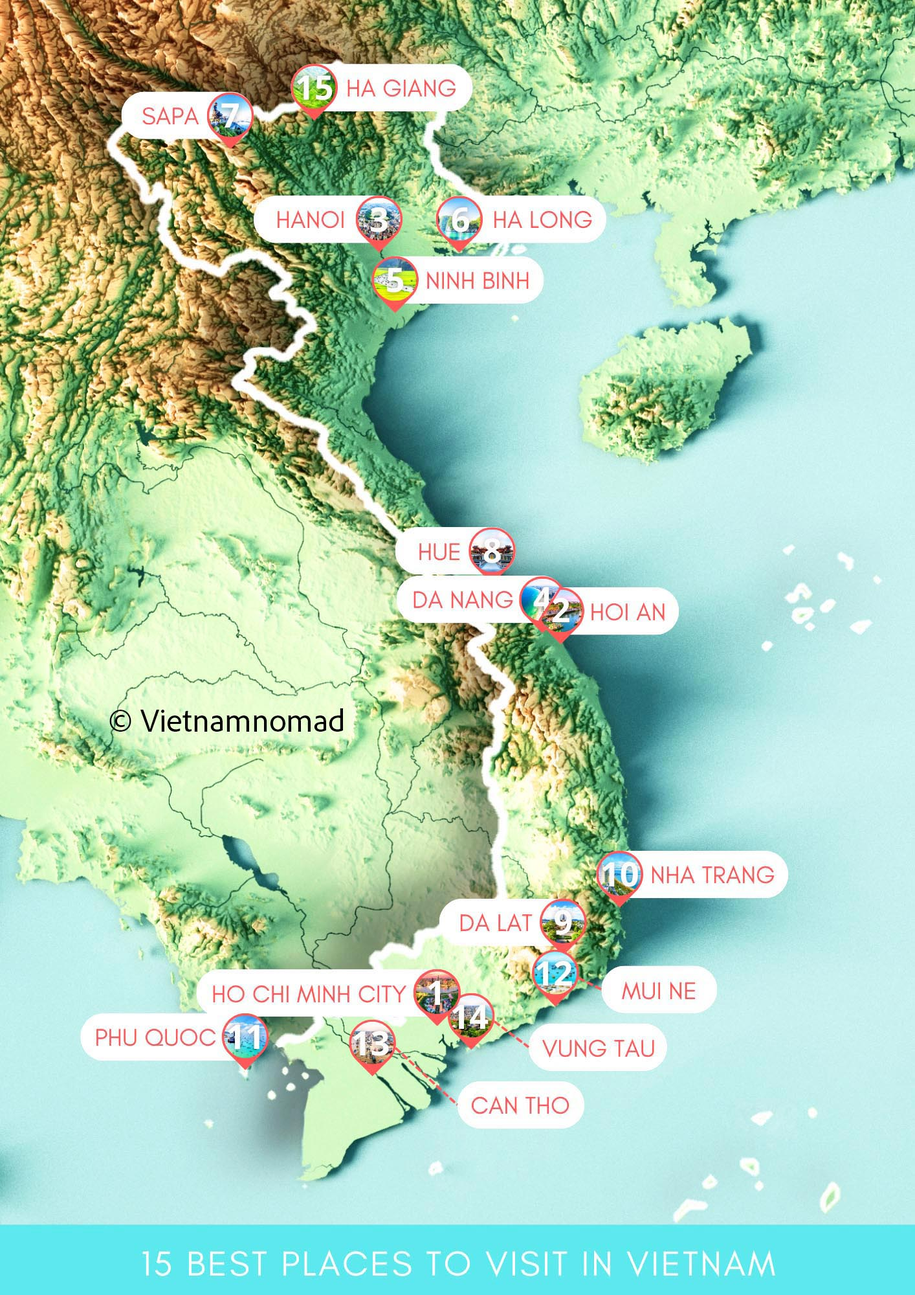
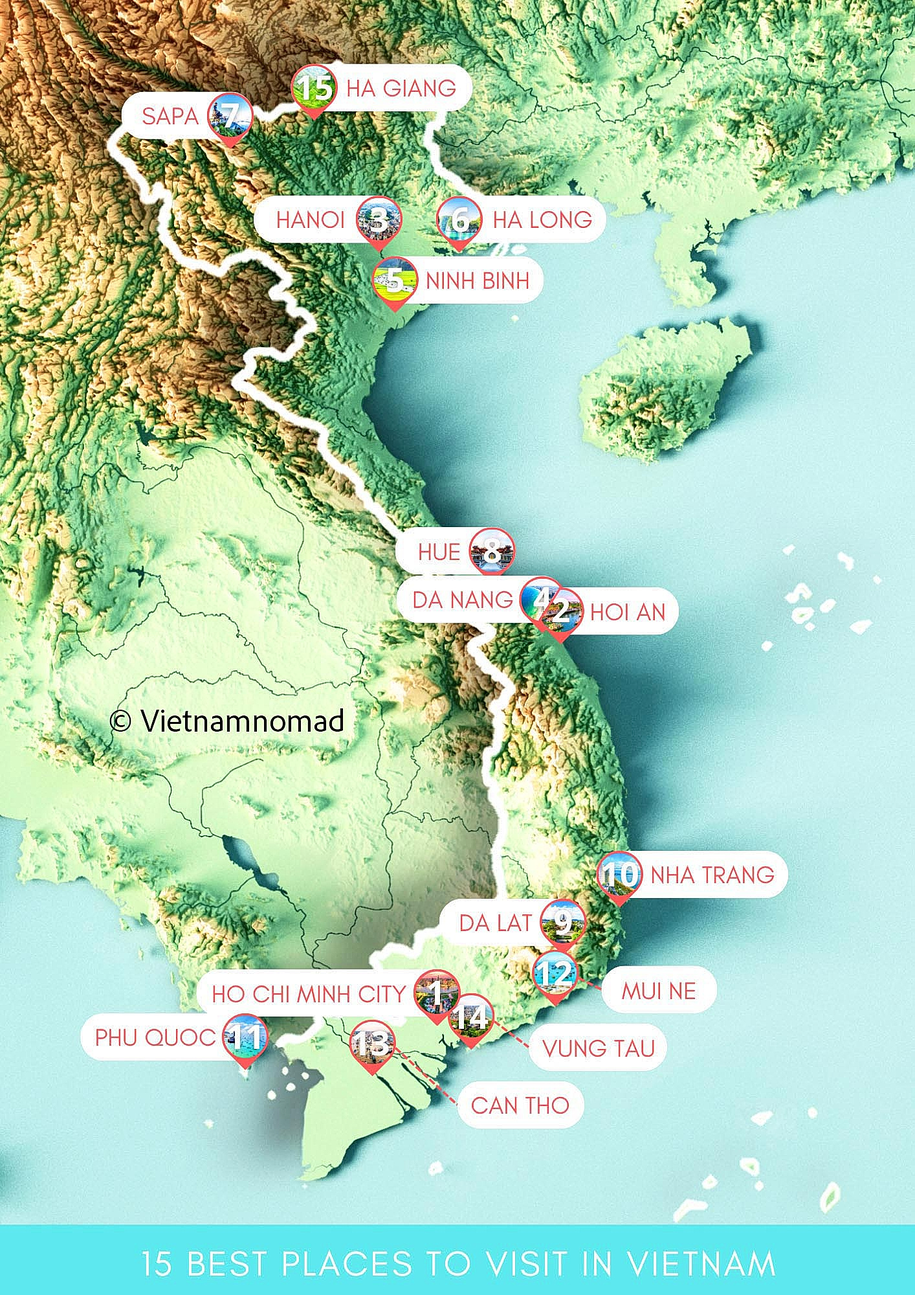
feat: add VI-EN language switcher to 15 best places navbar and sharpen 3D relief map

diff --git a/frontend/app/(public)/guide/15-best-places-to-visit-in-vietnam-in-2026/page.js b/frontend/app/(public)/guide/15-best-places-to-visit-in-vietnam-in-2026/page.js
@@ -4,6 +4,8 @@ import { useState, useRef, useEffect } from "react";
 import Link from "next/link";
 import Logo from "@/components/layout/Logo";
 import ProvinceChatbot from "@/components/ui/ProvinceChatbot";
+import LanguageSwitch from "@/components/ui/LanguageSwitch";
+import { getLang } from "@/lib/prefs";
 import {
   Search,
   ChevronDown,
@@ -317,11 +319,23 @@ function renderTextWithLinks(text) {
 }
 
 export default function BestPlaces2026Page() {
+  const [lang, setLangState] = useState("vi");
   const [activeMegaMenu, setActiveMegaMenu] = useState(null);
   const megaMenuTimeoutRef = useRef(null);
   const [searchModalOpen, setSearchModalOpen] = useState(false);
   const [searchModalText, setSearchModalText] = useState("");
   const [aiCompanionOpen, setAiCompanionOpen] = useState(false);
+
+  useEffect(() => {
+    setLangState(getLang());
+    const handleLangUpdated = (e) => {
+      setLangState(e.detail);
+    };
+    window.addEventListener("vinatap:lang-updated", handleLangUpdated);
+    return () => {
+      window.removeEventListener("vinatap:lang-updated", handleLangUpdated);
+    };
+  }, []);
   const [companionInput, setCompanionInput] = useState("");
   const [companionMessages, setCompanionMessages] = useState([
     {
@@ -400,7 +414,7 @@ export default function BestPlaces2026Page() {
                 type="button"
                 className={`vnn-navbar__link ${activeMegaMenu === "inspired" ? "is-active" : ""}`}
               >
-                <span>BE INSPIRED</span>
+                <span>{lang === "vi" ? "CẢM HỨNG" : "BE INSPIRED"}</span>
                 <ChevronDown size={14} className="vnn-navbar__chevron" />
               </button>
             </li>
@@ -414,7 +428,7 @@ export default function BestPlaces2026Page() {
                 type="button"
                 className={`vnn-navbar__link ${activeMegaMenu === "destinations" ? "is-active" : ""}`}
               >
-                <span>DESTINATIONS</span>
+                <span>{lang === "vi" ? "ĐIỂM ĐẾN" : "DESTINATIONS"}</span>
                 <ChevronDown size={14} className="vnn-navbar__chevron" />
               </button>
             </li>
@@ -428,7 +442,7 @@ export default function BestPlaces2026Page() {
                 type="button"
                 className={`vnn-navbar__link ${activeMegaMenu === "things" ? "is-active" : ""}`}
               >
-                <span>THINGS TO DO</span>
+                <span>{lang === "vi" ? "TRẢI NGHIỆM" : "THINGS TO DO"}</span>
                 <ChevronDown size={14} className="vnn-navbar__chevron" />
               </button>
             </li>
@@ -442,7 +456,7 @@ export default function BestPlaces2026Page() {
                 type="button"
                 className={`vnn-navbar__link ${activeMegaMenu === "eat" ? "is-active" : ""}`}
               >
-                <span>EAT & DRINK</span>
+                <span>{lang === "vi" ? "ẨM THỰC" : "EAT & DRINK"}</span>
                 <ChevronDown size={14} className="vnn-navbar__chevron" />
               </button>
             </li>
@@ -456,7 +470,7 @@ export default function BestPlaces2026Page() {
                 type="button"
                 className={`vnn-navbar__link ${activeMegaMenu === "itineraries" ? "is-active" : ""}`}
               >
-                <span>ITINERARIES</span>
+                <span>{lang === "vi" ? "LỊCH TRÌNH" : "ITINERARIES"}</span>
                 <ChevronDown size={14} className="vnn-navbar__chevron" />
               </button>
             </li>
@@ -467,10 +481,11 @@ export default function BestPlaces2026Page() {
               type="button"
               className="vnn-navbar__search-btn"
               onClick={() => setSearchModalOpen(true)}
-              aria-label="Tìm kiếm cẩm nang"
+              aria-label={lang === "vi" ? "Tìm kiếm cẩm nang" : "Search guides"}
             >
               <Search size={18} />
             </button>
+            <LanguageSwitch variant="navbar" />
           </div>
         </div>
 
@@ -500,8 +515,12 @@ export default function BestPlaces2026Page() {
                       <span className="vnn-megamenu__badge">{item.badge}</span>
                     )}
                   </div>
-                  <h4 className="vnn-megamenu__title">{item.title}</h4>
-                  <p className="vnn-megamenu__date">{item.date}</p>
+                  <h4 className="vnn-megamenu__title">
+                    {lang === "vi" ? item.titleVi : item.title}
+                  </h4>
+                  <p className="vnn-megamenu__date">
+                    {lang === "vi" ? item.dateVi : item.date}
+                  </p>
                 </Link>
               ))}
             </div>
@@ -523,11 +542,17 @@ export default function BestPlaces2026Page() {
             <span className="places-hero__badge">FEATURED ARTICLES</span>
           </div>
           <h1 className="places-hero__title">
-            15 best places to visit in Vietnam in 2026
+            {lang === "vi"
+              ? "15 địa điểm đẹp nhất Việt Nam năm 2026"
+              : "15 best places to visit in Vietnam in 2026"}
           </h1>
           <div className="places-hero__meta">
-            <span className="places-hero__author">By VinaTap</span>
-            <span className="places-hero__date">June 16, 2026</span>
+            <span className="places-hero__author">
+              {lang === "vi" ? "Bởi VinaTap" : "By VinaTap"}
+            </span>
+            <span className="places-hero__date">
+              {lang === "vi" ? "16 Tháng 6, 2026" : "June 16, 2026"}
+            </span>
           </div>
         </div>
       </section>
@@ -542,57 +567,88 @@ export default function BestPlaces2026Page() {
             onClick={() => setAiCompanionOpen(true)}
           >
             <Sparkles size={16} />
-            <span>Create your Vietnam trip in seconds</span>
+            <span>
+              {lang === "vi"
+                ? "Lên kế hoạch du lịch Việt Nam chỉ trong vài giây"
+                : "Create your Vietnam trip in seconds"}
+            </span>
           </button>
         </div>
 
         {/* INTRO PARAGRAPHS */}
         <div className="places-intro-text">
-          <p>
-            Vietnam, a country with 34 provinces stretching over 1,650
-            kilometers in an S-shape, is a land blessed by Mother Nature with
-            diverse and abundant landscapes. Each region and town has its own
-            unique features in terms of geography, culture, cuisine, and people,
-            blending together into countless experiences that could take a
-            lifetime to fully explore. This diversity can sometimes overwhelm
-            those planning their visit.
-          </p>
-          <p>
-            Understanding this, we have compiled a list of the 15 most
-            recommended destinations to help travelers plan their trip more
-            easily while ensuring they experience the most distinctive aspects
-            of Vietnam. This list is based on over 8,000 votes from our community
-            (voting results can be found at the end of this article).
-          </p>
+          {lang === "vi" ? (
+            <>
+              <p>
+                Việt Nam, đất nước với 34 tỉnh thành trải dài hơn 1.650 km theo hình chữ S, là mảnh đất được thiên nhiên ưu đãi với vô vàn cảnh quan thiên nhiên đa dạng và phong phú. Mỗi vùng miền, mỗi địa danh đều mang những nét đặc trưng riêng về địa lý, văn hóa, ẩm thực và con người, hòa quyện tạo nên muôn vàn trải nghiệm mà có lẽ cần cả cuộc đời mới khám phá hết. Sự phong phú này đôi khi khiến du khách băn khoăn khi lựa chọn điểm đến.
+              </p>
+              <p>
+                Hiểu được điều đó, chúng tôi đã tổng hợp danh sách 15 điểm đến được khuyến cử hàng đầu để giúp du khách dễ dàng lên kế hoạch cho chuyến đi của mình mà vẫn đảm bảo trải nghiệm trọn vẹn những nét đặc sắc nhất của Việt Nam. Danh sách này được bình chọn dựa trên hơn 8.000 lượt yêu thích từ cộng đồng du khách quốc tế.
+              </p>
+            </>
+          ) : (
+            <>
+              <p>
+                Vietnam, a country with 34 provinces stretching over 1,650
+                kilometers in an S-shape, is a land blessed by Mother Nature with
+                diverse and abundant landscapes. Each region and town has its own
+                unique features in terms of geography, culture, cuisine, and people,
+                blending together into countless experiences that could take a
+                lifetime to fully explore. This diversity can sometimes overwhelm
+                those planning their visit.
+              </p>
+              <p>
+                Understanding this, we have compiled a list of the 15 most
+                recommended destinations to help travelers plan their trip more
+                easily while ensuring they experience the most distinctive aspects
+                of Vietnam. This list is based on over 8,000 votes from our community.
+              </p>
+            </>
+          )}
         </div>
 
         {/* 3D RELIEF MAP SECTION (SCREENSHOTS 2 & 3) */}
         <section className="places-map-section">
           <div className="places-map-card">
-            <img
-              src="/guide/15-best-places/vietnam-map-3d.jpg"
-              alt="15 Best Places to Visit in Vietnam - 3D Relief Travel Map"
-              className="places-map-img"
-              loading="eager"
-            />
-            <div className="places-map-banner">
-              15 BEST PLACES TO VISIT IN VIETNAM
-            </div>
+            <picture>
+              <source srcSet="/guide/15-best-places/vietnam-map-3d.webp" type="image/webp" />
+              <img
+                src="/guide/15-best-places/vietnam-map-3d.jpg"
+                alt="15 Best Places to Visit in Vietnam - 3D Relief Travel Map"
+                className="places-map-img"
+                loading="eager"
+              />
+            </picture>
           </div>
           <p className="places-map-caption">
-            15 best places to visit in Vietnam in 2026
+            {lang === "vi"
+              ? "Bản đồ 15 địa điểm đẹp nhất Việt Nam năm 2026"
+              : "15 best places to visit in Vietnam in 2026"}
           </p>
 
           <div className="places-map-subtext">
-            <p>
-              Create your own personalized map of Vietnam's best places to visit
-              with Triplon.
-            </p>
-            <p>
-              Simply open <a href="#ai-companion" onClick={(e) => { e.preventDefault(); setAiCompanionOpen(true); }}>Triplon.ai</a>, tell it what kind of trip you're
-              planning, save the destinations you'd like to explore, and download
-              your custom travel map as a PDF.
-            </p>
+            {lang === "vi" ? (
+              <>
+                <p>
+                  Tạo bản đồ du lịch cá nhân hóa các điểm đến tuyệt nhất Việt Nam cùng VinaTap.
+                </p>
+                <p>
+                  Mở Trợ lý AI Du lịch, chia sẻ mong muốn về chuyến đi, lưu lại các điểm bạn muốn khám phá và tải bản đồ hành trình riêng cho bạn.
+                </p>
+              </>
+            ) : (
+              <>
+                <p>
+                  Create your own personalized map of Vietnam's best places to visit
+                  with VinaTap.
+                </p>
+                <p>
+                  Simply open AI Travel Companion, tell it what kind of trip you're
+                  planning, save the destinations you'd like to explore, and download
+                  your custom travel map.
+                </p>
+              </>
+            )}
             <div style={{ marginTop: "18px" }}>
               <button
                 type="button"
@@ -600,7 +656,10 @@ export default function BestPlaces2026Page() {
                 style={{ padding: "10px 26px", fontSize: "14px" }}
                 onClick={() => setAiCompanionOpen(true)}
               >
-                Create Your Map
+                <Sparkles size={15} />
+                <span>
+                  {lang === "vi" ? "Lên kế hoạch du lịch" : "Create Your Map"}
+                </span>
               </button>
             </div>
           </div>
@@ -615,7 +674,7 @@ export default function BestPlaces2026Page() {
               className="place-item"
             >
               <h2 className="place-item__title">
-                {item.number}. {item.title}
+                {item.number}. {lang === "vi" ? item.titleVi : item.title}
               </h2>
               <div className="place-item__layout">
                 <div className="place-item__img-wrap">

diff --git a/frontend/styles/places-article.css b/frontend/styles/places-article.css
@@ -190,32 +190,18 @@
   border: 1px solid #e5e7eb;
   overflow: hidden;
   margin: 0 auto;
-  max-width: 640px;
+  max-width: 680px;
 }
 
 .places-map-img {
   width: 100%;
   height: auto;
   display: block;
-  image-rendering: -webkit-optimize-contrast;
-  image-rendering: crisp-edges;
-  filter: contrast(1.03) brightness(1.01);
   transition: transform 0.4s ease;
 }
 
 .places-map-card:hover .places-map-img {
   transform: scale(1.015);
-}
-
-.places-map-banner {
-  background: #00c2cb;
-  color: #ffffff;
-  font-size: 16px;
-  font-weight: 800;
-  letter-spacing: 1.4px;
-  text-transform: uppercase;
-  padding: 14px 20px;
-  text-align: center;
 }
 
 .places-map-caption {
